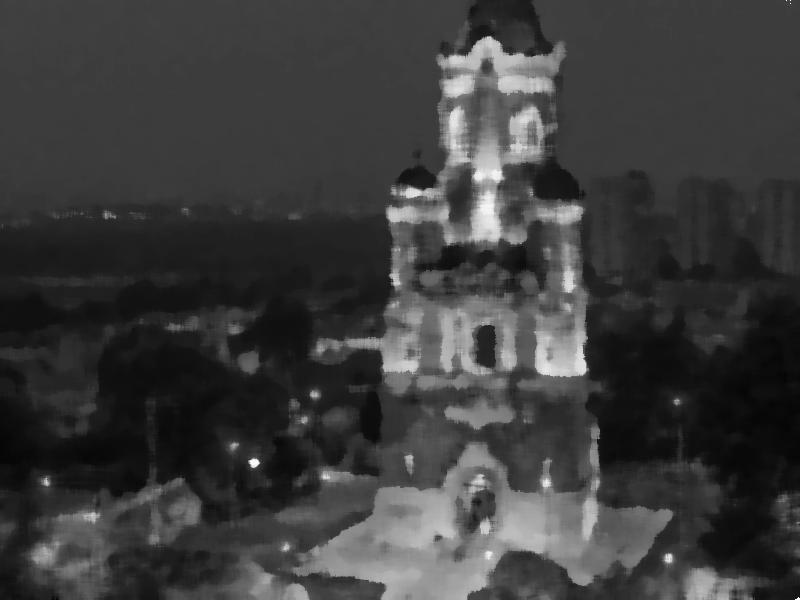
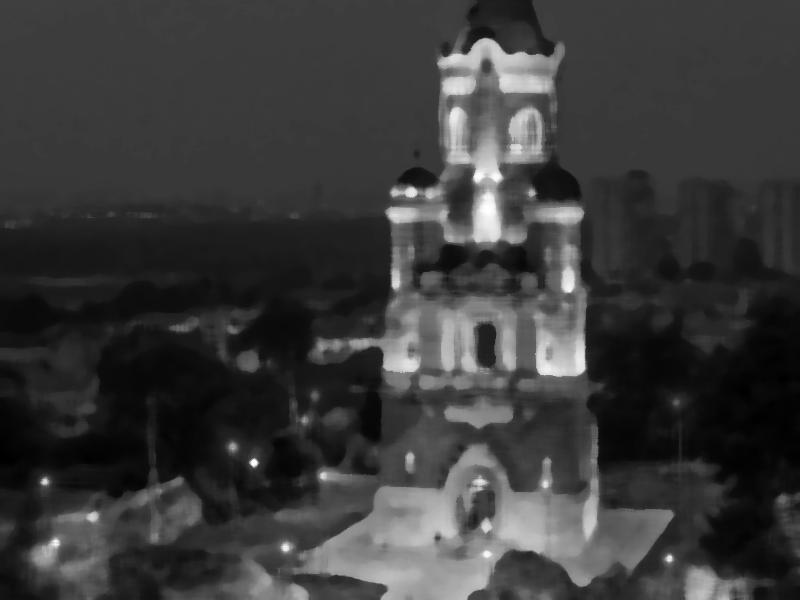
Task 3 solved

diff --git a/zad3.py b/zad3.py
@@ -5,3 +5,37 @@ Created on Fri Dec  3 21:10:18 2021
 @author: mm180261d
 """
 
+import skimage
+from skimage import io
+from skimage import color
+import matplotlib.pyplot as plt
+from scipy import ndimage
+
+from pylab import *
+import numpy as np
+
+
+if __name__ == "__main__":
+    img_in = skimage.img_as_float(io.imread('..\sekvence\lena_noise.tif'))
+    io.imshow(img_in)
+    r = 3
+    box = np.ones([2*r+1, 2*r+1], dtype=float)/(2*r+1)**2
+    
+    box_filtar = ndimage.correlate(img_in, box)
+    square_box_filtar = ndimage.correlate(img_in**2, box)
+    
+    sigma_xy = square_box_filtar - box_filtar**2
+    
+    histogram, bins = np.histogram(sigma_xy.flatten(), bins=256)
+    arg = np.argmax(histogram)
+    
+    sigma_n = bins[arg]
+    
+    w = sigma_n / sigma_xy
+    w[w>1] = 1
+    
+    img_out = img_in - w * (img_in - box_filtar)
+    
+    plt.figure()
+    io.imshow(img_out)
+    

diff --git a/zad4.py b/zad4.py
@@ -45,7 +45,7 @@ def partition(arr, low, high) -> int:
     arr[i+1], arr[high] = arr[high], arr[i+1]
     return (i+1)
  
-def quick_sort(arr: np.array, low: int, high: int, middle: int) -> float:
+def quick_sort(arr: np.array, low: int, high: int, middle: int) -> int or float:
     if len(arr) == 1:
         return arr
     if low < high:
